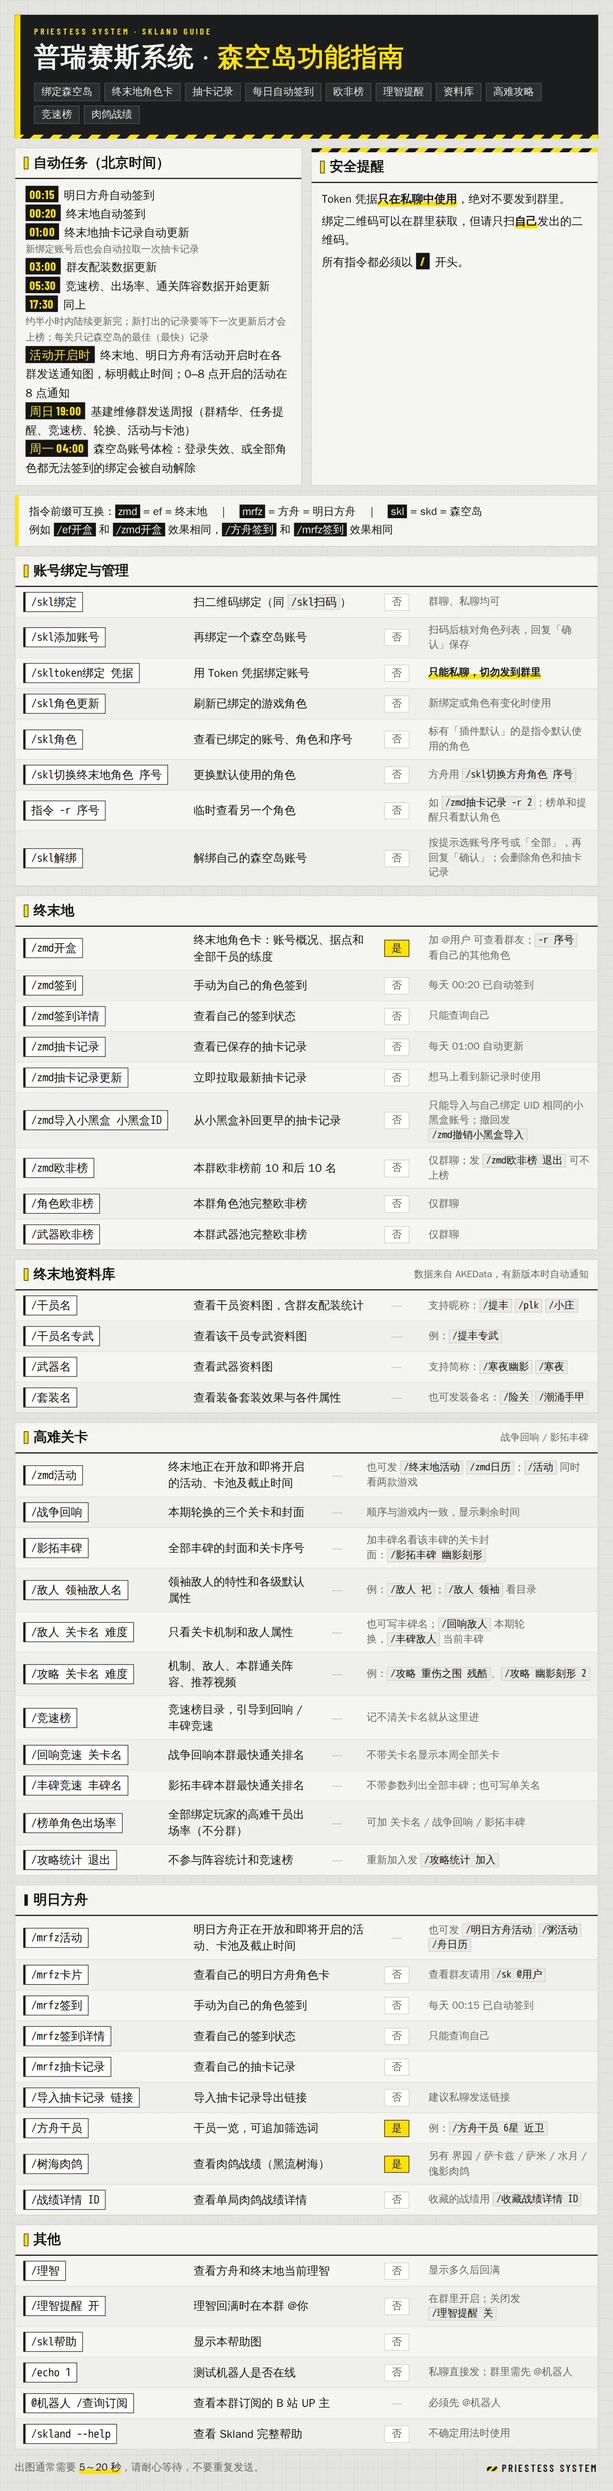
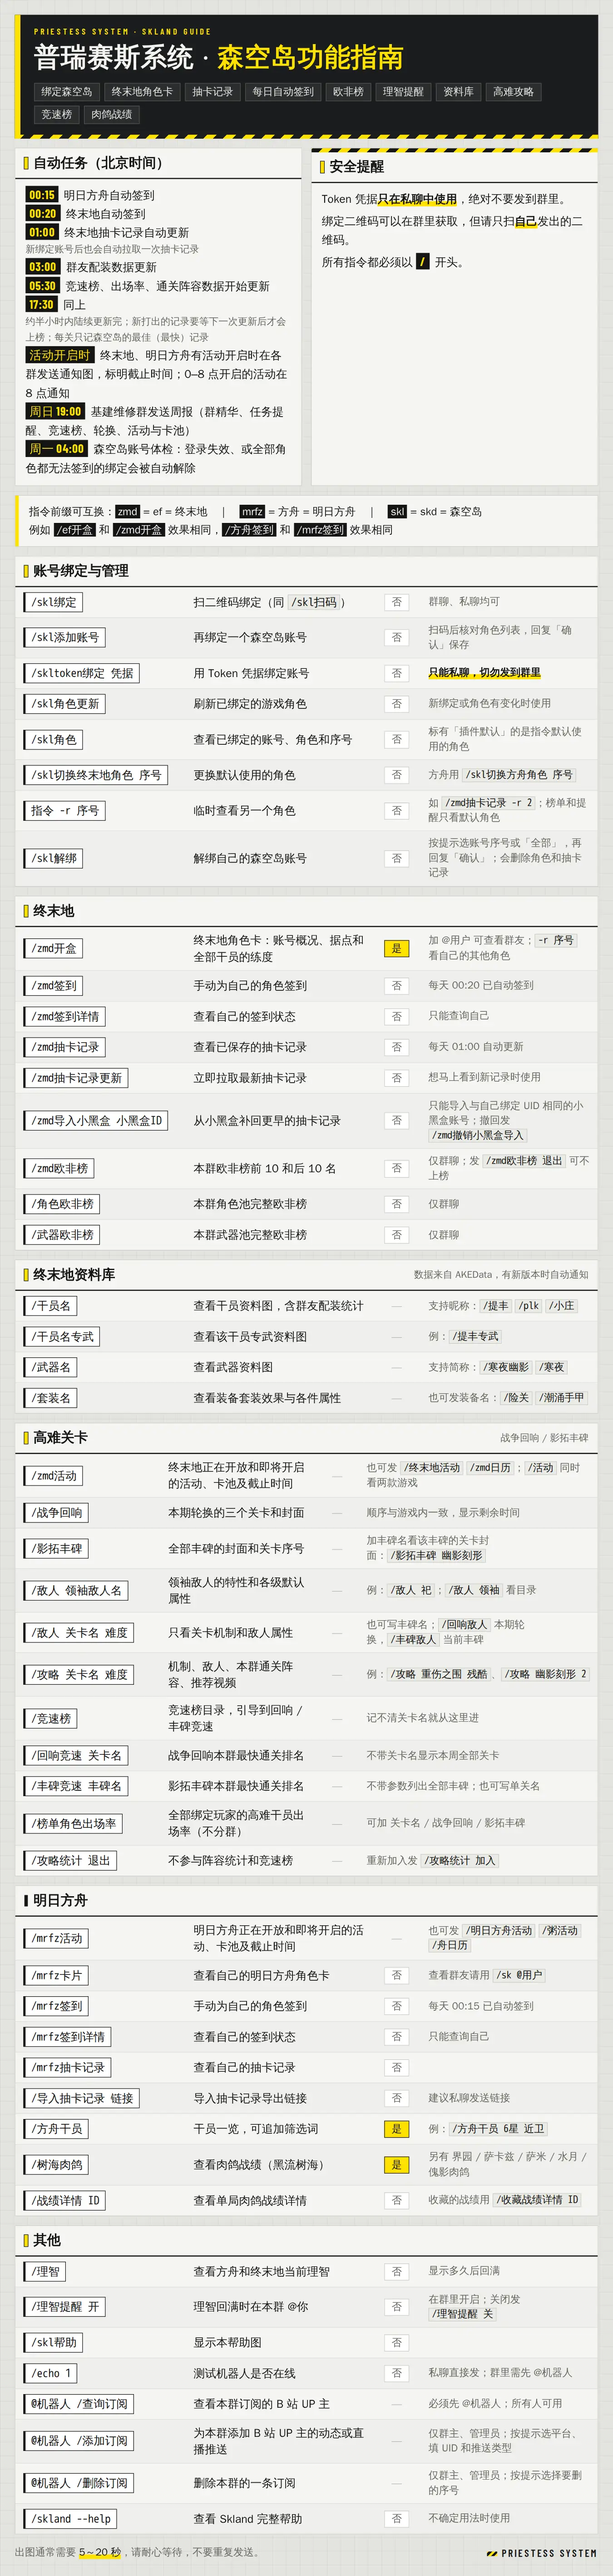
Help lists Bison's group subscription commands for owners and admins

Changed region(s): [[0.0311, 0.0, 0.9644, 0.9985], [0.6222, 0.4681, 0.6533, 0.4993], [0.2178, 0.4369, 0.2489, 0.4681]]

diff --git a/plugins/skl_help/help.html b/plugins/skl_help/help.html
@@ -221,7 +221,9 @@ td.note { color: var(--ef-sub); font-size: 18px; }
       <tr><td class="cmd"><code>/理智提醒 开</code></td><td class="fn">理智回满时在本群 @你</td><td class="at"><span class="no">否</span></td><td class="note">在群里开启；关闭发 <code>/理智提醒 关</code></td></tr>
       <tr><td class="cmd"><code>/skl帮助</code></td><td class="fn">显示本帮助图</td><td class="at"><span class="no">否</span></td><td class="note"></td></tr>
       <tr><td class="cmd"><code>/echo 1</code></td><td class="fn">测试机器人是否在线</td><td class="at"><span class="no">否</span></td><td class="note">私聊直接发；群里需先 @机器人</td></tr>
-      <tr><td class="cmd"><code>@机器人 /查询订阅</code></td><td class="fn">查看本群订阅的 B 站 UP 主</td><td class="at"><span class="na">—</span></td><td class="note">必须先 @机器人</td></tr>
+      <tr><td class="cmd"><code>@机器人 /查询订阅</code></td><td class="fn">查看本群订阅的 B 站 UP 主</td><td class="at"><span class="na">—</span></td><td class="note">必须先 @机器人；所有人可用</td></tr>
+      <tr><td class="cmd"><code>@机器人 /添加订阅</code></td><td class="fn">为本群添加 B 站 UP 主的动态或直播推送</td><td class="at"><span class="na">—</span></td><td class="note">仅群主、管理员；按提示选平台、填 UID 和推送类型</td></tr>
+      <tr><td class="cmd"><code>@机器人 /删除订阅</code></td><td class="fn">删除本群的一条订阅</td><td class="at"><span class="na">—</span></td><td class="note">仅群主、管理员；按提示选择要删的序号</td></tr>
       <tr><td class="cmd"><code>/skland --help</code></td><td class="fn">查看 Skland 完整帮助</td><td class="at"><span class="no">否</span></td><td class="note">不确定用法时使用</td></tr>
     </table>
   </div>

diff --git a/README.md b/README.md
@@ -196,6 +196,8 @@ NapCat 以反向 WebSocket 客户端连入。动态推送可另外搭配
 
 不部署这两个单元时，插件仍会同意邀请，只是不会添加或移除订阅。
 
+各群自己的订阅可以在群里用 Bison 自带的指令调整：群主和管理员 `@机器人 /添加订阅`、`@机器人 /删除订阅`，所有人 `@机器人 /查询订阅`（`/skl帮助` 的「其他」一栏列了这三条）。
+
 ## 配置
 
 `.env` 中的主要配置项：
